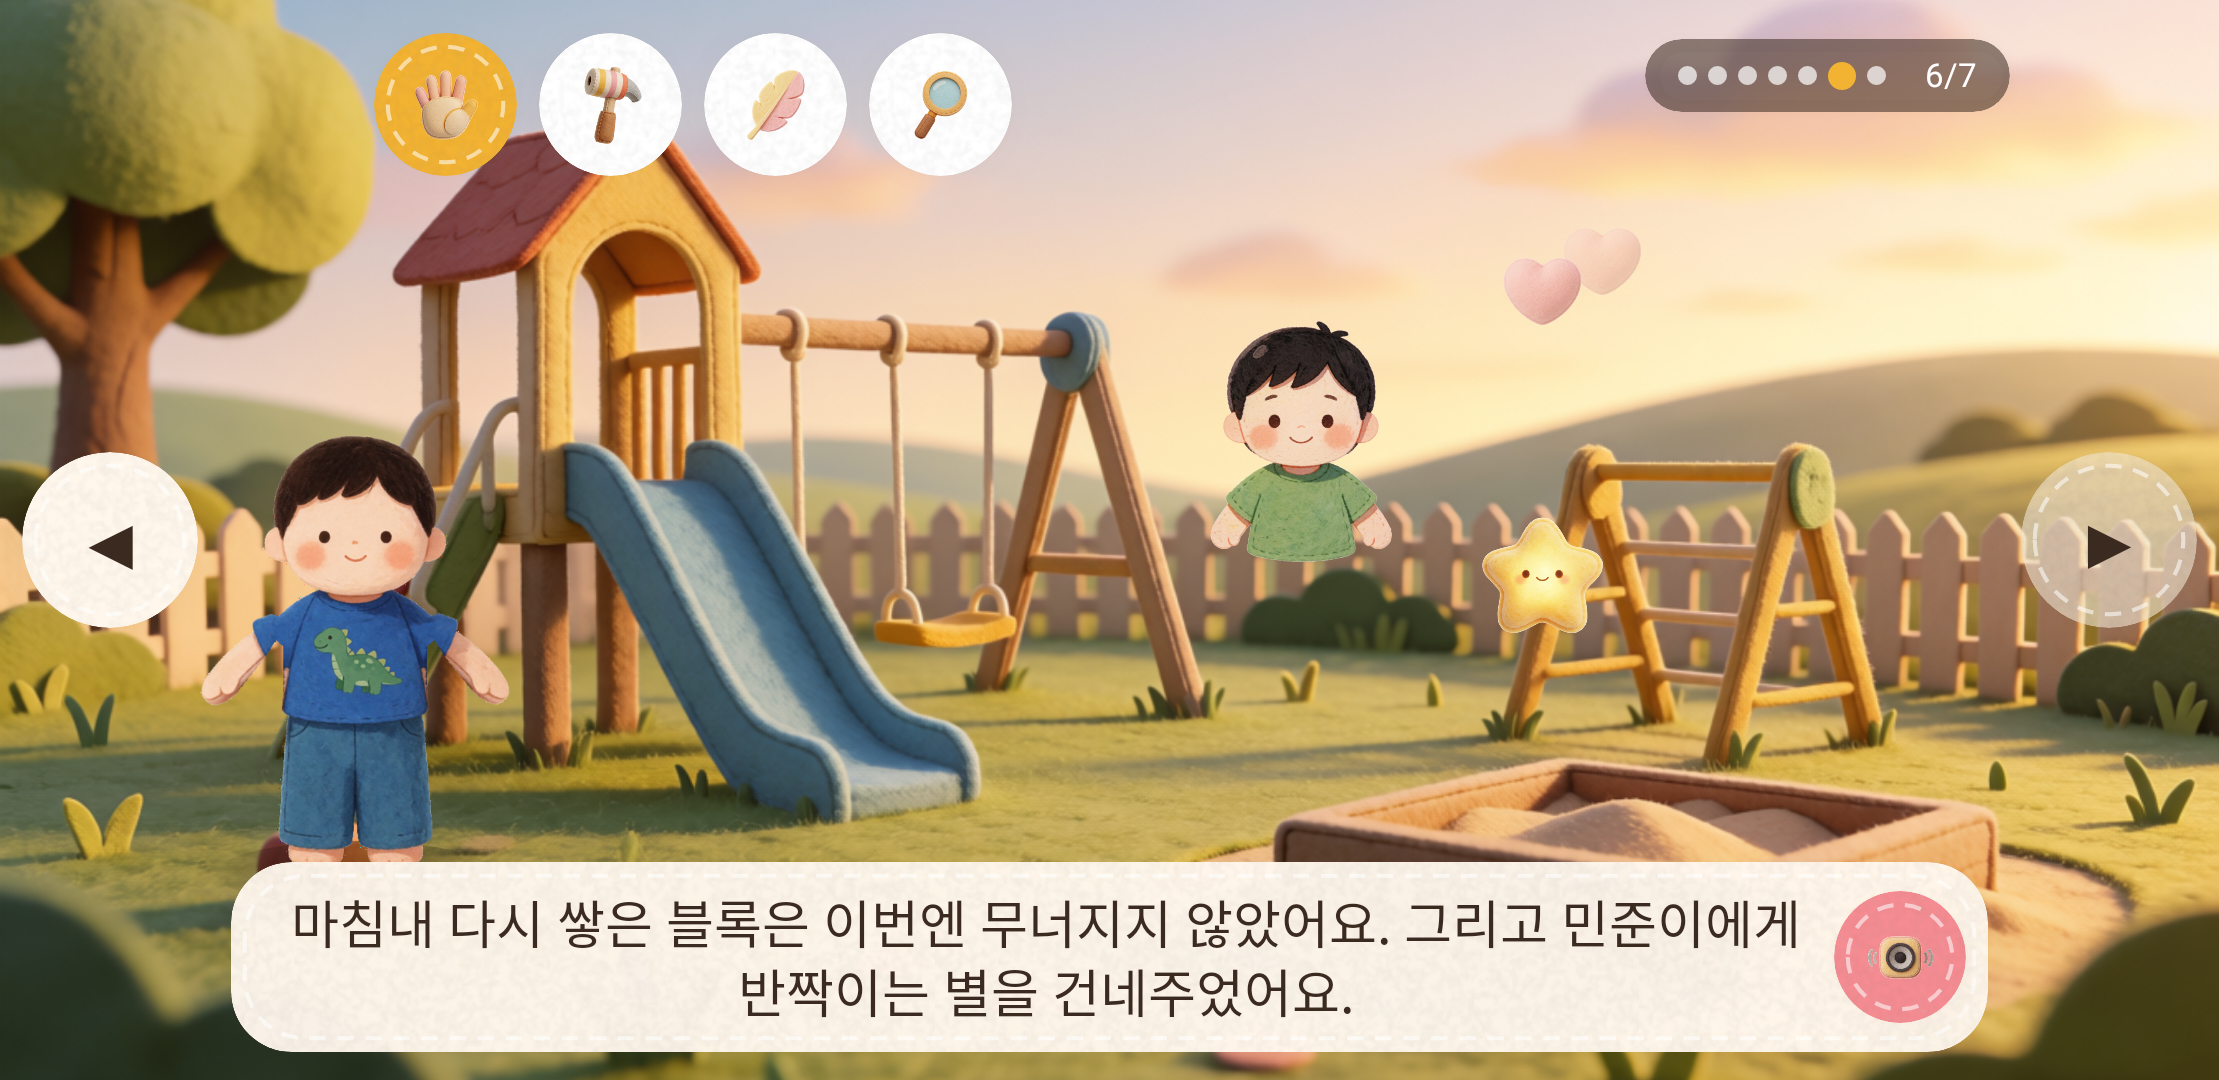
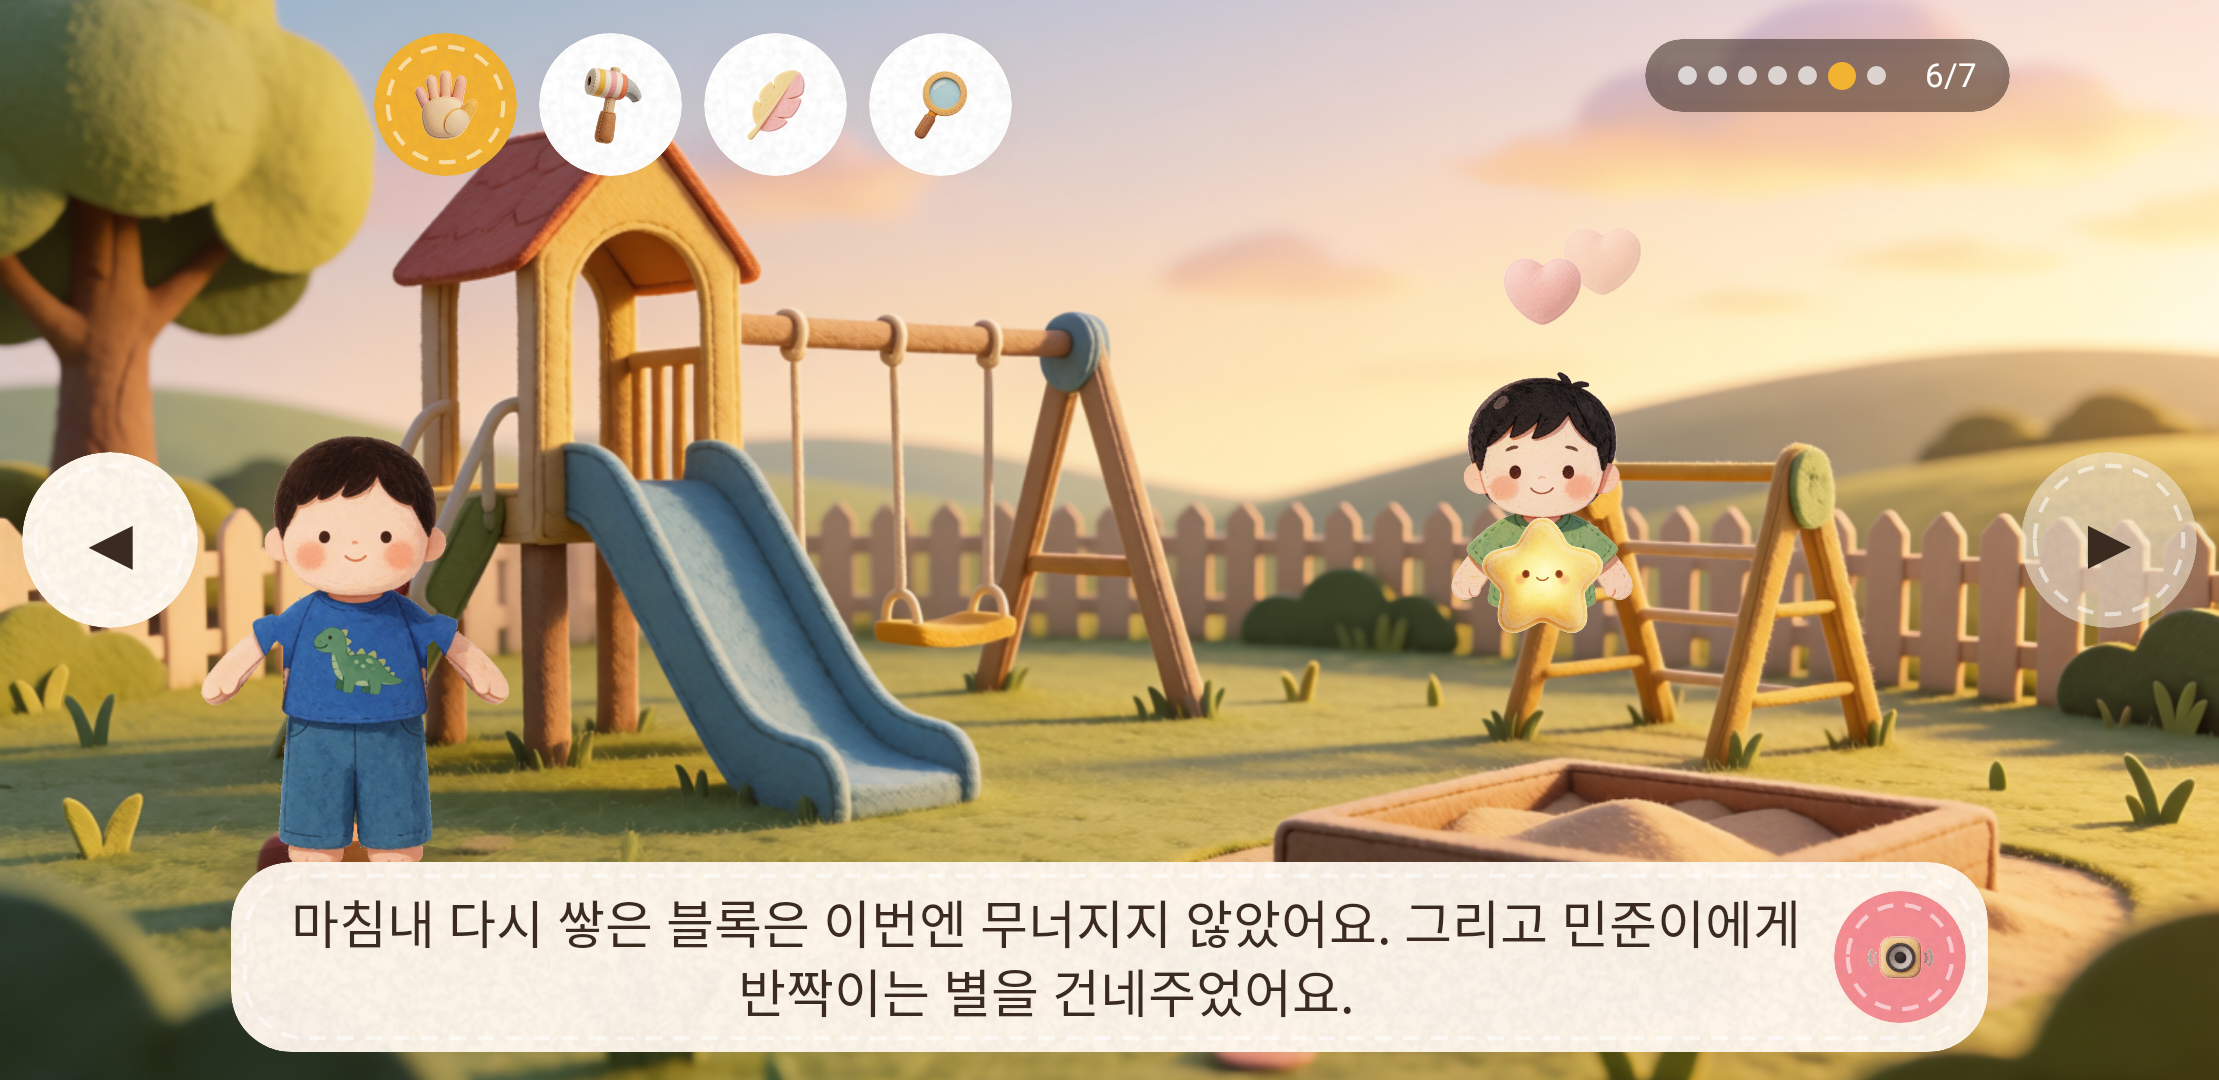
fix(book): place figures with offset, not padding — negative padding closed the app on tablets (#41)
- Stand()/Layer() in Book.kt and the floor band in Screen.kt: a computed position below 0
  (RUB hero at x 0.14 on 16:10 and 4:3) threw 'Padding must be non-negative'
- place first, then the caller's modifier, so a scale shrinks about the figure's own centre:
  the DRAG friend (0.62) had been drawn at 0.58 W while the drop is judged at 0.695 W —
  touch_drag.png re-recorded, the star now lands in the friend's hands
- BookSizesTest: every book page at phone, small phone, 16:10 and 4:3; fails without the fix

Claude-Session: https://claude.ai/code/session_01LkNF7f9o9PqZn6qeDSJpzE

Changed region(s): [[0.653, 0.3361, 0.7463, 0.5806], [0.5286, 0.3056, 0.6219, 0.5194]]

diff --git a/android/app/src/test/java/com/example/finalproject_demo/BookSizesTest.kt b/android/app/src/test/java/com/example/finalproject_demo/BookSizesTest.kt
@@ -1,0 +1,88 @@
+package com.example.finalproject_demo
+
+import androidx.compose.foundation.background
+import androidx.compose.foundation.layout.Box
+import androidx.compose.foundation.layout.fillMaxSize
+import androidx.compose.runtime.getValue
+import androidx.compose.runtime.mutableStateOf
+import androidx.compose.runtime.setValue
+import androidx.compose.ui.Modifier
+import androidx.compose.ui.test.junit4.createComposeRule
+import com.example.finalproject_demo.demo.Director
+import com.example.finalproject_demo.demo.PageKind
+import com.example.finalproject_demo.demo.Scene
+import com.example.finalproject_demo.demo.Stage
+import com.example.finalproject_demo.demo.StoryMode
+import com.example.finalproject_demo.demo.pageCount
+import com.example.finalproject_demo.demo.pageKind
+import com.example.finalproject_demo.ui.Bg
+import com.example.finalproject_demo.ui.StageView
+import kotlinx.coroutines.CoroutineScope
+import kotlinx.coroutines.SupervisorJob
+import org.junit.Assert.assertTrue
+import org.junit.Rule
+import org.junit.Test
+import org.junit.runner.RunWith
+import org.robolectric.RobolectricTestRunner
+import org.robolectric.annotation.Config
+import org.robolectric.annotation.GraphicsMode
+
+/**
+ * Every book page composes on screens other than 치영's S10 (#41).
+ *
+ * 09-30 민우: a 1280×800 · 180 dpi tablet (16:10) closed the app on the first RUB page —
+ * `Stand()` put the hero at x = 0.14 of the width minus half its width, went below 0, and a
+ * negative `padding` throws. This does not compare pictures; it only proves nothing throws.
+ */
+@RunWith(RobolectricTestRunner::class)
+@GraphicsMode(GraphicsMode.Mode.NATIVE)
+class BookSizesTest {
+    @get:Rule val compose = createComposeRule()
+
+    private fun book(mode: StoryMode): Director {
+        val d = Director(CoroutineScope(SupervisorJob()))
+        d.s.speed = 0.0
+        d.s.mode = mode
+        d.s.scene = Scene.BOOK
+        d.s.placeLabel = "놀이터"; d.s.place = "놀이터"; d.s.slots["place"] = "놀이터에 갔어요"
+        d.s.problem = "블록이 무너짐"; d.s.slots["problem"] = "높이 쌓은 블록이 와르르 무너졌어요"
+        d.s.cause = "같이 놀고 싶었어"; d.s.slots["cause"] = "같이 놀고 싶어서 그랬대요"
+        d.s.solution = "다시 쌓았어"; d.s.solutionLine = "다시 쌓은 블록은 이번엔 무너지지 않았어요"
+        d.s.slots["solution"] = d.s.solutionLine
+        d.s.title = "놀이터에서 만난 민준이"
+        return d
+    }
+
+    private fun everyPageComposes() {
+        var sawRub = false
+        // one setContent per test: the book in front is swapped through state
+        var shown by mutableStateOf(book(StoryMode.STORY))
+        compose.mainClock.autoAdvance = false
+        compose.setContent { Box(Modifier.fillMaxSize().background(Bg)) { StageView(shown) } }
+        for (mode in listOf(StoryMode.STORY, StoryMode.DIARY)) {
+            val d = book(mode)
+            compose.runOnIdle { d.s.stage = Stage.BookPage(1); shown = d }
+            for (p in 1..d.s.pageCount) {
+                if (d.s.pageKind(p) == PageKind.RUB) sawRub = true
+                compose.runOnIdle { d.s.stage = Stage.BookPage(p) }
+                compose.mainClock.advanceTimeBy(400)            // throws here if a page cannot lay out
+            }
+        }
+        assertTrue("RUB 쪽이 하나도 없었다 — 이 검사가 #41 을 못 본다", sawRub)
+    }
+
+    /** 민우 재현 조건 — 1280×800 px · 180 dpi = 16:10 */
+    @Test @Config(sdk = [34], qualifiers = "w1138dp-h711dp-land-180dpi")
+    fun tablet16by10() = everyPageComposes()
+
+    /** 치영 S10 기준 폰 */
+    @Test @Config(sdk = [34], qualifiers = "w807dp-h393dp-land-440dpi")
+    fun phone() = everyPageComposes()
+
+    /** 4:3 태블릿 · 작은 폰 가로 */
+    @Test @Config(sdk = [34], qualifiers = "w1024dp-h768dp-land-160dpi")
+    fun tablet4by3() = everyPageComposes()
+
+    @Test @Config(sdk = [34], qualifiers = "w640dp-h360dp-land-320dpi")
+    fun smallPhone() = everyPageComposes()
+}

diff --git a/android/app/src/main/java/com/example/finalproject_demo/ui/Book.kt b/android/app/src/main/java/com/example/finalproject_demo/ui/Book.kt
@@ -91,8 +91,11 @@ private fun Layer(xf: Float, yf: Float, wf: Float, aspect: Float = 0.75f, modifi
     BoxWithConstraints(Modifier.fillMaxSize()) {
         val w = maxWidth * wf
         Box(
-            modifier
-                .padding(start = maxWidth * xf, top = maxHeight * yf)
+            // place first, then the caller's modifier: a scale in it (DRAG friend 0.62) then shrinks
+            // about the figure's own centre, not about the corner of the page (#41)
+            Modifier
+                .offset(x = maxWidth * xf, y = maxHeight * yf)   // offset, not padding: padding < 0 crashes
+                .then(modifier)
                 .width(w)
                 .height(w / aspect)
         ) { content() }
@@ -156,7 +159,7 @@ private fun Stand(
             val shH = wide * 0.13f
             Box(
                 Modifier
-                    .padding(start = left + (wide - shW) / 2, top = feet - shH * 0.35f)
+                    .offset(x = left + (wide - shW) / 2, y = feet - shH * 0.35f)
                     .width(shW)
                     .height(shH)
                     .then(modifier)
@@ -175,7 +178,9 @@ private fun Stand(
                 }
             }
         }
-        Box(modifier.padding(start = left, top = top).width(wide).height(tall)) { content() }
+        // offset, not padding: at the page's edge (RUB xf 0.14 on a 16:10 tablet) left < 0, and a
+        // negative padding throws — the app closed on the first mission (#41)
+        Box(Modifier.offset(x = left, y = top).then(modifier).width(wide).height(tall)) { content() }
     }
 }
 

diff --git a/android/app/src/main/java/com/example/finalproject_demo/ui/Screen.kt b/android/app/src/main/java/com/example/finalproject_demo/ui/Screen.kt
@@ -287,7 +287,7 @@ private fun FrontGround(bgName: String) {
         val bandTop = feetNear - full * 0.09f
         Box(
             Modifier
-                .padding(top = bandTop)
+                .offset(y = bandTop)          // may go below 0 on a short screen — padding would throw (#41)
                 .fillMaxWidth()
                 .height(bandH)
                 .clipToBounds()
